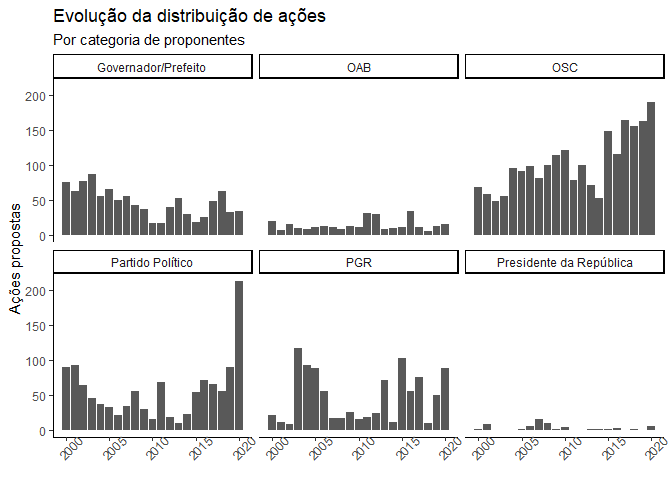
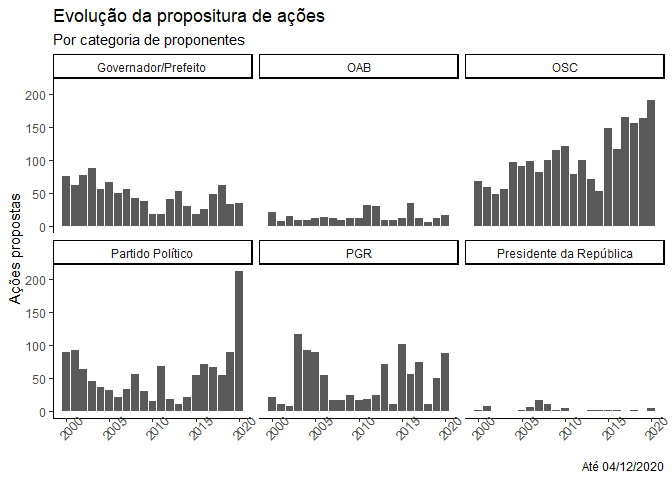
Revisão no texto, correções nos gráficos, links para as ADPFs mencionadas nos textos

diff --git a/README.md b/README.md
@@ -532,7 +532,11 @@ subsidiariedade. Ou seja, ela deveria ser residual em seu cabimento.
 Algumas hipóteses que podem explicar esse crescimento são uma maior
 criatividade dos proponentes, que vêm se ancorando em teses como a do
 “*estado de coisas inconstitucional*” a exemplo do utilizado nas ADPFs
-347, 635, 709 e 760.
+[347](http://portal.stf.jus.br/processos/detalhe.asp?incidente=4783560),
+[635](http://portal.stf.jus.br/processos/detalhe.asp?incidente=5816502),
+[709](http://portal.stf.jus.br/processos/detalhe.asp?incidente=5952986)
+e
+[760](http://portal.stf.jus.br/processos/detalhe.asp?incidente=6049993).
 
 ## Atividade dos proponentes
 
@@ -571,16 +575,16 @@ Vejamos:
 
 ![](README_files/figure-gfm/grafico_distribuicao_2020_categoria-1.png)<!-- -->
 
-Podemos ver que a atuação dos Estados (Governadores) se deu de forma
-mais intensa no início do ano, enquanto a OAB atuou de forma mais
-contundente nos primeiros meses da pandemia.
+Podemos ver que a atuação dos Estados e DF (via **Governadores**) se deu
+de forma mais intensa no início do ano, enquanto a **OAB** atuou de
+forma mais contundente nos primeiros meses da pandemia.
 
-As organizações da sociedade civil e os partidos tiveram atuação intensa
-durante todo o ano, com picos nas fases iniciais da pandemia.
+As organizações da **sociedade civil** e os **partidos** tiveram atuação
+intensa durante todo o ano, com picos nas fases iniciais da pandemia.
 
-A Presidência da República, quando agiu, foi apenas no meio do ano. A
-PGR, por sua vez, teve atuação mais destacada no inicio da pandemia e
-mais recentemente, em novembro.
+A **Presidência** da República, quando agiu, foi apenas no meio do ano.
+A **PGR**, por sua vez, teve atuação mais destacada no inicio da
+pandemia e mais recentemente, em novembro.
 
 #### Atuação da OSC e Partidos
 
@@ -591,7 +595,7 @@ importância nos últimos anos. Da mesma forma, os partidos políticos têm
 se mostrado bastante combativos no âmbito do STF.
 
 Uma nota importante é que, ao contrário dessas associações, os Partidos
-políticos possuem a chamada “legitimidade universal” e, por isso, em
+políticos possuem a chamada “*legitimidade universal*” e, por isso, em
 tese podem apresentar ações em qualquer tema enquanto as OSCs apenas nos
 temas que dizem respeito direto aos seus associados.
 
@@ -601,7 +605,7 @@ Tribunal Federal.
 ##### *Quais partidos políticos*
 
 Abaixo lista de quais partidos mais apresentaram ações. Um grande
-destaque para os Partidos de esquerda.
+destaque para os Partidos tradicionalmente tidos como de esquerda.
 
 | nome                                         |  n |
 | :------------------------------------------- | -: |
@@ -643,9 +647,9 @@ Dúvidas sobre os limites federativos, questionamento de atos legislatios
 ou executivos, omissão do Governo Federal, etc foram algumas das muitas
 questões levadas à Corte.
 
-Veremos a seguir a proporção de ações relativas com a pandemia em
-relação aos demais temas ao longo dos meses de janeiro até o fim de
-novembro de 2020:
+Veremos a seguir a proporção de ações relativas à pandemia em relação
+aos demais temas ao longo dos meses de janeiro até o fim de novembro de
+2020:
 
 ![](README_files/figure-gfm/grafico_evolucao_acoes_covid-1.png)<!-- -->
 
@@ -711,24 +715,24 @@ A título especulativo, destacaria que parece interessante o fato de
 a legitimidade universal sugere que esse grupo leva à Corte temas
 diversos.
 
-De outro lado, as organizações da sociedade civil - nas quais, como
+De outro lado, as **organizações da sociedade civil** - nas quais, como
 vimos, se destacam as entidades de classe de servidores públicos - têm
 entre os destaques os termos *competência*, *servidores*, *regime*,
 *cargo*, *concessão*, e outros sugestivos de matéria precipuamente de
 direito administrativo. Estariam essas entidades levando ao STF
 primordialmente temas relativos a direitos e deveres de suas categorias?
 
-A Ordem dos Advogados do Brasil em destaque para termos como
+A **Ordem dos Advogados do Brasil** em destaque para termos como
 *advogados*, *princípio*, *pagamento*, *recursos*, *custas*, *valores* e
 *competênci*a, possivelmente relacionados a questões tributárias, de
 processo e exercício da atividade da advocacia.
 
-A PGR traz com frequência termos como *código, normas*, *competência,
-administração*, *cargos* e outras expressões também bastante
-relacionadas ao direito público (embora o termo *civil* também seja
-bastante destacado).
+A **PGR** traz com frequência termos como *código, normas*,
+*competência, administração*, *cargos* e outras expressões também
+bastante relacionadas ao direito público (embora o termo *civil* também
+seja bastante destacado).
 
-As palavras referentes à Presidência da República são bem pouco
+As palavras referentes à **Presidência da República** são bem pouco
 conclusivas, pois traz expressões como *ADPF, princípio*, *relator*,
 *preceitos*, *expressão* que são muito inerentes à retórica jurídica: ou
 seja, são expressões esperadas em qualquer tipo de ação constitucional,
@@ -736,7 +740,7 @@ sendo difícil dizer a que argumentos de mérito podem estar relacionados.
 Contudo, há destaque grande para as expressões *exercício* e
 *liberdade*. O que poderá significar?
 
-Por fim, as expressões destacadas para Governadores indicam grande
+Por fim, as expressões destacadas para **Governadores** indicam grande
 vínculo a matérias administrativas: *assembleia* e *legislativa* pode
 sugerir que a maior parte das ações digam respeito a normas Estaduais
 (aprovadas pela “Assembleia Legislativa”). Curiosamente, se nota dois
